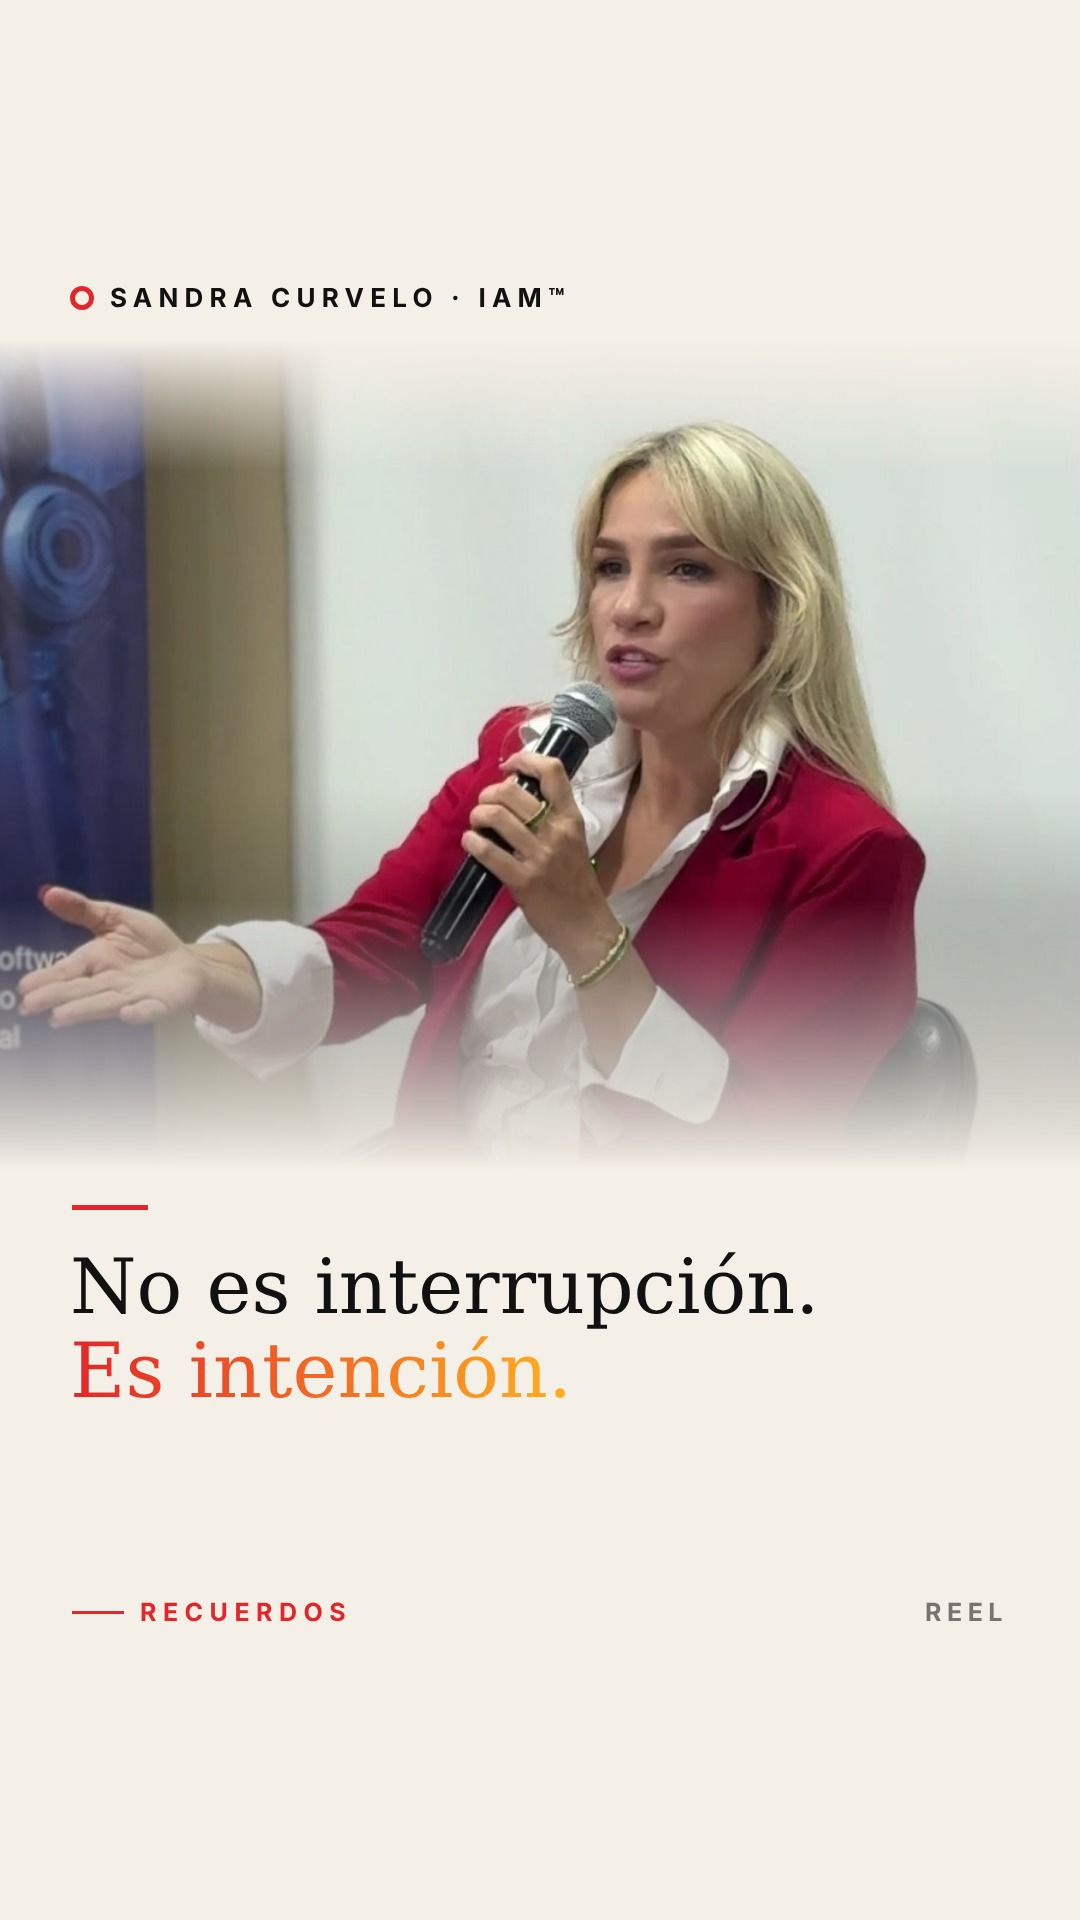
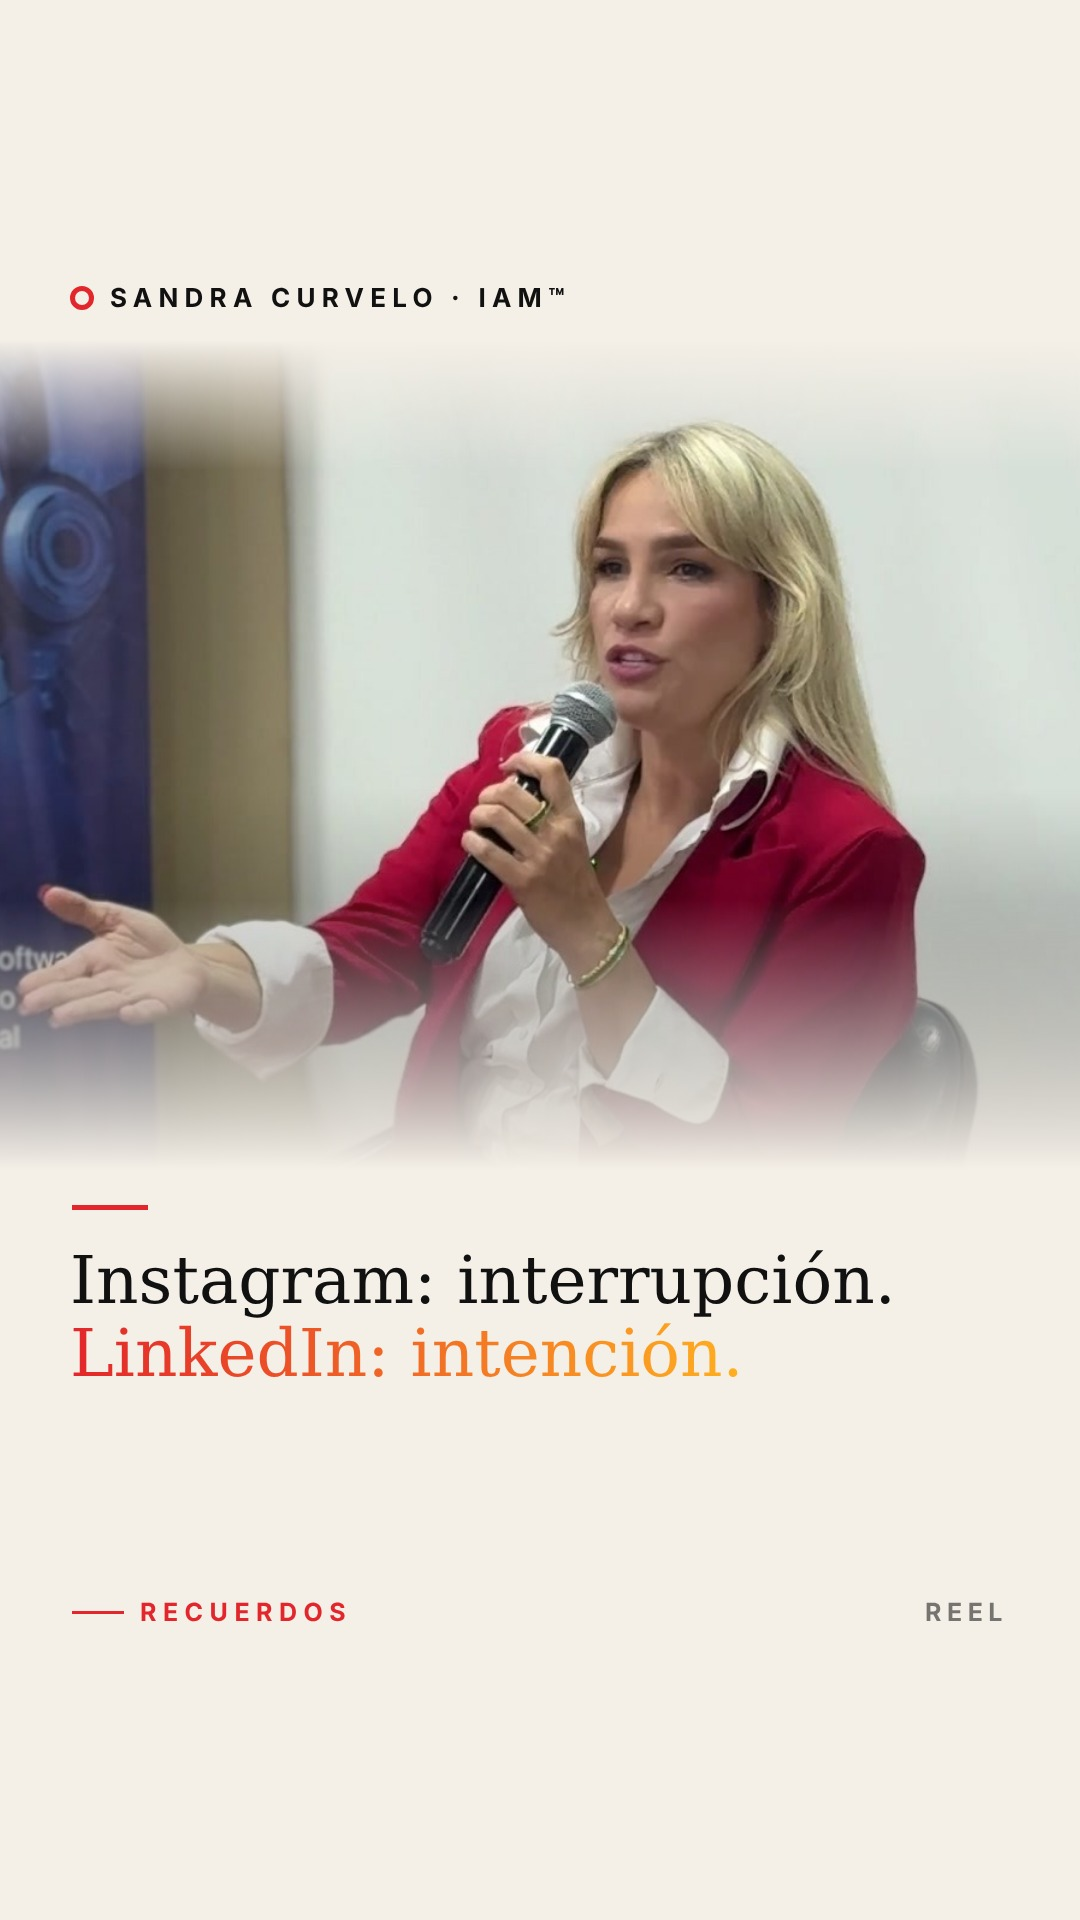
Portada UDES: Instagram: interrupción. LinkedIn: intención.
Claude-Session: https://claude.ai/code/session_01NfWH1YnxdbRLc9ZrUJbHYq

Changed region(s): [[0.0611, 0.6562, 0.825, 0.75]]

diff --git a/estrategia/instagram/diseno-feed/gen.py b/estrategia/instagram/diseno-feed/gen.py
@@ -5,7 +5,7 @@ P=[
 ("matia","robot.jpg","light","Claude actualiza","mi CRM.","Tips de Claude · Demo simulada",(1450,0,62)),
 ("prospecta","gorra.jpg","light","Claude prospecta.","Yo apruebo.","Tips de Claude · Demo simulada",(1080,-170,50)),
 ("alpina","alpina.jpg","dark","No llames en frío.","Llega sabiendo.","Recuerdos",(1300,-540,50)),
-("udes","udes.jpg","light","No es interrupción.","Es intención.","Recuerdos",(1300,-430,58)),
+("udes","udes.jpg","light","Instagram: interrupción.","LinkedIn: intención.","Recuerdos",(1300,-430,58)),
 ("correo","correo.jpg","dark","Claude lee mi correo.","Yo solo apruebo.","Tips de Claude · Demo simulada",(1080,-40,50)),
 ]
 css="""*{margin:0;padding:0;box-sizing:border-box}body{width:1080px}
@@ -27,5 +27,5 @@ css="""*{margin:0;padding:0;box-sizing:border-box}body{width:1080px}
 """
 h="<!doctype html><html><head><meta charset=utf-8><style>"+css+"</style></head><body>"
 for i,img,m,t,e,g,(w,off,lp) in P:
-    h+=f'<div class="c {m}" id="{i}"><div class="ph"><img src="{img}" style="width:{w}px;top:{off}px;left:calc({lp}% - {w*lp/100}px)"></div><div class="f"></div><div class="b"><span class="r"></span>Sandra Curvelo · IAM™</div><div class="l"></div><div class="t">{t}<br><em>{e}</em></div><div class="g">{g}</div><div class="k">Reel</div></div>'
+    h+=f'<div class="c {m}" id="{i}"><div class="ph"><img src="{img}" style="width:{w}px;top:{off}px;left:calc({lp}% - {w*lp/100}px)"></div><div class="f"></div><div class="b"><span class="r"></span>Sandra Curvelo · IAM™</div><div class="l"></div><div class="t" style="{'font-size:66px' if i=='udes' else ''}">{t}<br><em>{e}</em></div><div class="g">{g}</div><div class="k">Reel</div></div>'
 open(sys.argv[1],"w").write(h+"</body></html>")
